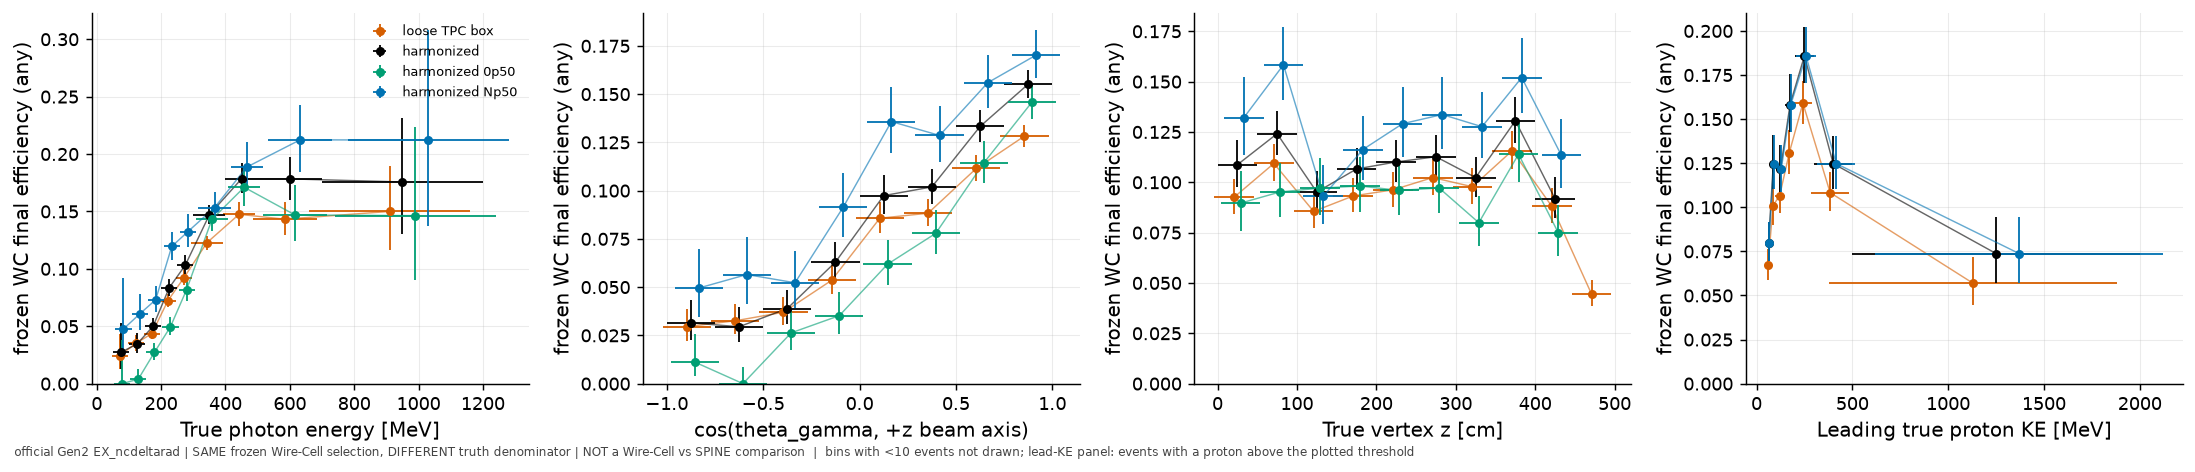
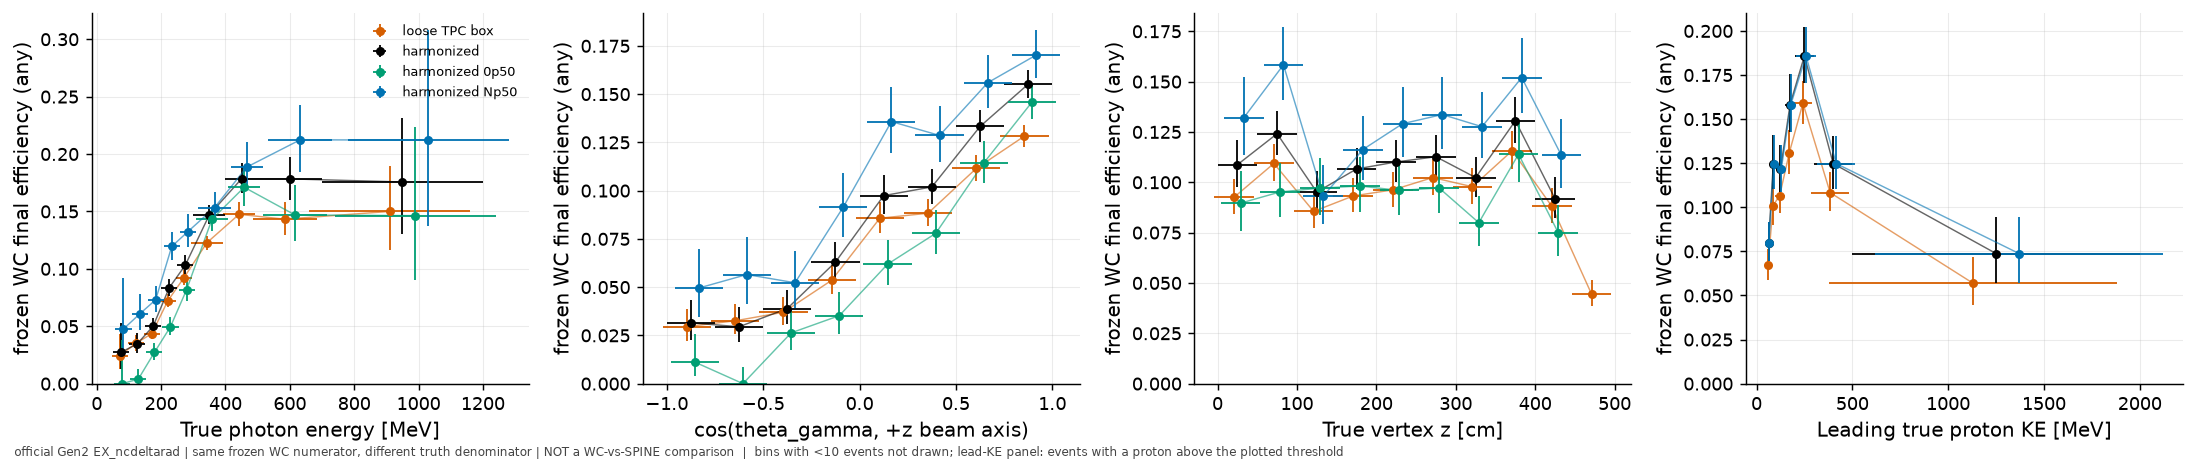
plots: clarify SPINE harmonization denominator effect
Split the former 'waterfall' into the cumulative denominator-definition ladder (panel A) and the disjoint harmonized topology subsets as unconnected markers (panel B);
renamed to denominator_definition_effect.png; footer states same frozen WC numerator / different truth denominator / not a WC-vs-SPINE comparison. No calculation changed.

Changed region(s): [[0.0929, 0.9492, 0.6506, 0.9788]]

diff --git a/scripts/spine_harmonization.py b/scripts/spine_harmonization.py
@@ -26,7 +26,7 @@ for d in (OUT, PLD, SUMD):
     d.mkdir(parents=True, exist_ok=True)
 RSE = ["run", "subrun", "evt"]; SUMMARY: dict = {}
 SCHEMA = "spine-harmonization-1.0"
-PROV = "official Gen2 EX_ncdeltarad | SAME frozen Wire-Cell selection, DIFFERENT truth denominator | NOT a Wire-Cell vs SPINE comparison"
+PROV = "official Gen2 EX_ncdeltarad | same frozen WC numerator, different truth denominator | NOT a WC-vs-SPINE comparison"
 
 
 def sha(p):
@@ -215,9 +215,21 @@ def main_report():
     for nm, m in (("harmonized 0p50 (50 MeV categories)", t.spine_truth_0p50), ("harmonized Np50 (50 MeV categories)", t.spine_truth_Np50)):
         wf.append(dict(step=nm, **{f"any_{k}": v for k, v in eff(m.to_numpy(bool), "A_final", t).items()}, first_eff=eff(m.to_numpy(bool), "A_final_first", t)["efficiency"]))
     W = pd.DataFrame(wf); W.to_csv(OUT / "waterfall.csv", index=False); W.to_csv(SUMD / "waterfall.csv", index=False); SUMMARY["waterfall"] = W.round(5).to_dict("records")
-    fig, ax = PS.figure(1, 1, size=(8.5, 4.2)); a = ax[0][0]; x = np.arange(len(W)); y = W.any_efficiency.to_numpy()
-    a.errorbar(x, y, yerr=[y - W.any_lo68, W.any_hi68 - y], fmt="o-", color="k"); a.set_xticks(x); a.set_xticklabels(W.step, rotation=35, ha="right", fontsize=7); a.set_ylabel("frozen WC final efficiency (policy any)"); a.set_ylim(bottom=0)
-    fig.tight_layout(); PS.annotate(fig, PROV, extra="denominator-definition effects only"); fig.savefig(PLD / "waterfall_definition_effect.png", bbox_inches="tight"); plt.close(fig)
+    # Panel A: the cumulative denominator-definition ladder (ends at the harmonized signal). Panel B: the harmonized TOPOLOGY subsets are two DISJOINT subsets of the harmonized
+    # denominator, not further cuts: shown as separate unconnected markers next to 'all'.
+    fig, ax = PS.figure(1, 2, size=(12.5, 4.6)); a, b = ax[0]
+    ladder = W.iloc[:7]; x = np.arange(len(ladder)); y = ladder.any_efficiency.to_numpy()
+    a.errorbar(x, y, yerr=[y - ladder.any_lo68, ladder.any_hi68 - y], fmt="o-", color="k"); a.axvline(1.5, color="0.7", ls=":", lw=0.8)
+    a.set_xticks(x); a.set_xticklabels(ladder.step, rotation=35, ha="right", fontsize=7); a.set_ylabel("frozen WC final efficiency (policy any)"); a.set_ylim(bottom=0)
+    a.set_title("A: cumulative denominator definition (first two points are alternative starting regions)", fontsize=8)
+    topo = pd.concat([W.iloc[[6]], W.iloc[7:9]]); topo = topo.assign(label=["harmonized all", "harmonized 0p50", "harmonized Np50"])
+    for k, (r, col) in enumerate(zip(topo.itertuples(), ["k", "#009E73", "#0072B2"])):
+        b.errorbar([k], [r.any_efficiency], yerr=[[r.any_efficiency - r.any_lo68], [r.any_hi68 - r.any_efficiency]], fmt="o", color=col, ls="none", ms=7)
+        b.annotate(f"{100 * r.any_efficiency:.2f} %", (k, r.any_efficiency), textcoords="offset points", xytext=(12, -3), fontsize=8)
+    b.set_xticks(range(3)); b.set_xticklabels(topo.label, fontsize=8); b.set_xlim(-0.5, 2.8); b.set_ylim(bottom=0); b.set_ylabel("frozen WC final efficiency (policy any)")
+    b.set_title("B: harmonized topology subsets (disjoint subsets of the same denominator; NOT sequential cuts)", fontsize=8)
+    fig.tight_layout(); PS.annotate(fig, PROV, extra="denominator-definition effects only")
+    fig.savefig(PLD / "denominator_definition_effect.png", bbox_inches="tight"); plt.close(fig)
 
     # ---- Task 14: differential trends, loose TPC box vs harmonized
     bins = DF.load_bins()["variables"]; sub = {"loose TPC box": t[t.tpc_box].copy(), "harmonized": t[t.spine_truth_signal].copy()}
